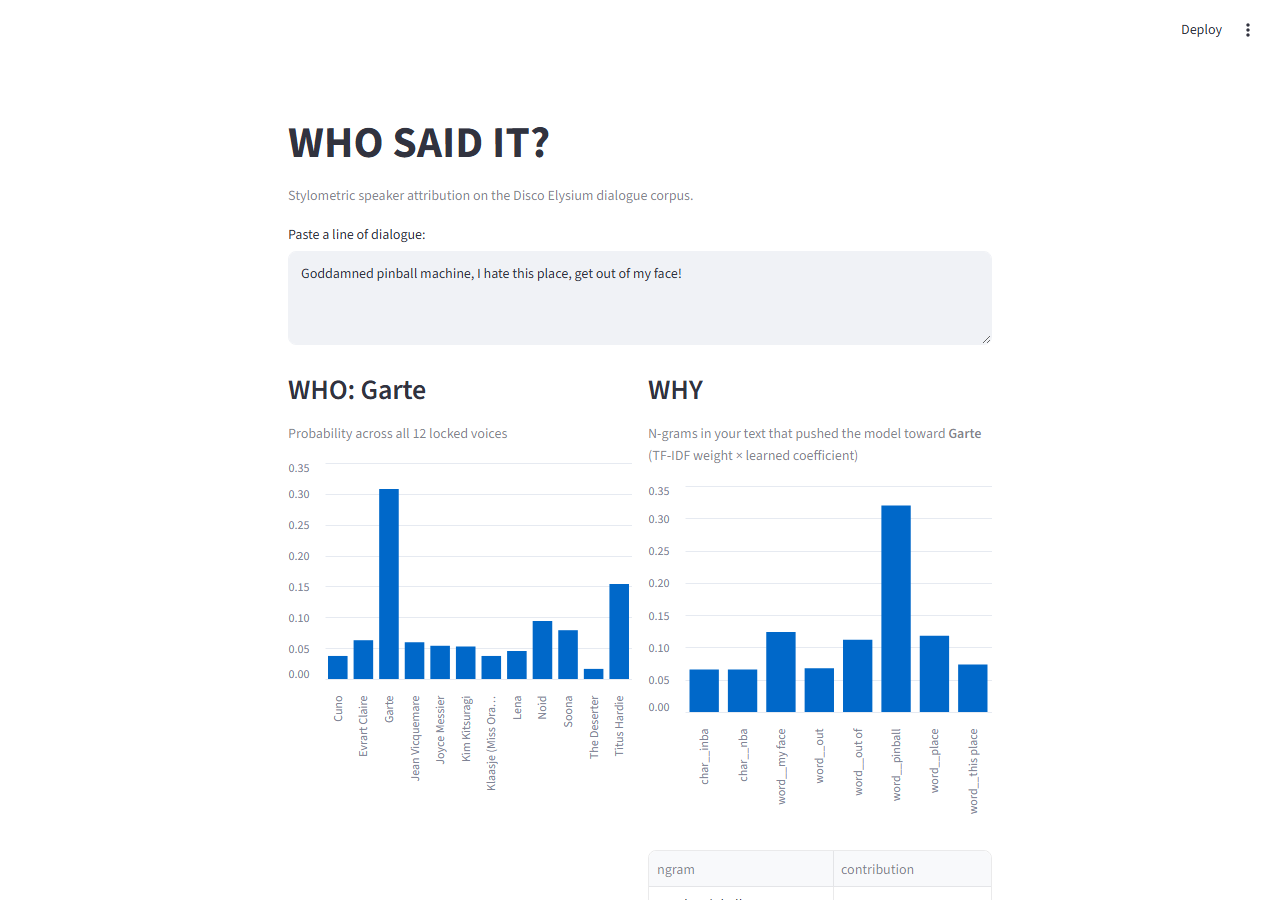
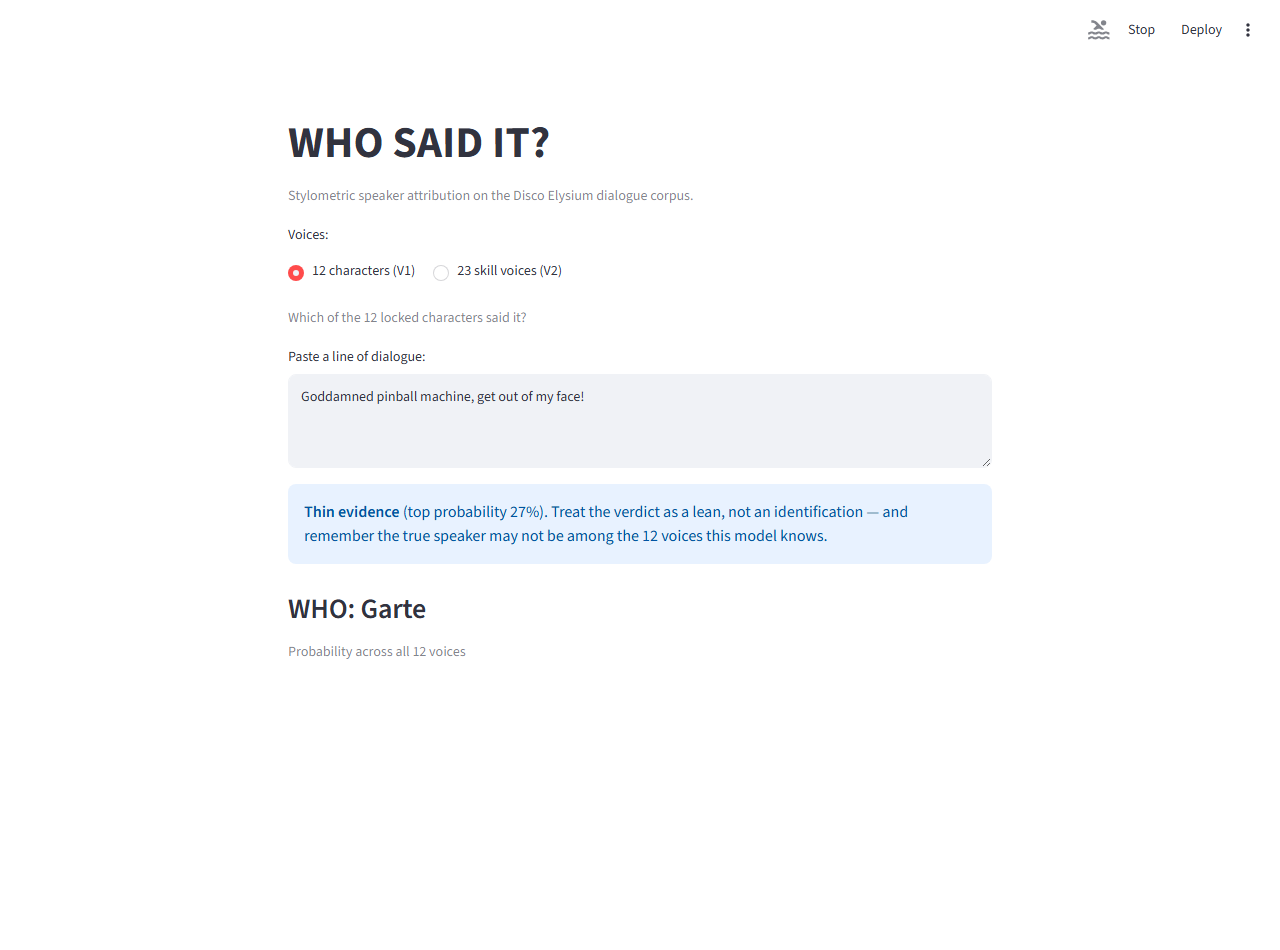
Post-deploy hardening: V2 demo mode, closed-set honesty, perf, tests
Found by hands-on live testing of the deployed demo:
- app: add a V1 (12 characters) / V2 (23 skills) toggle; ship the V2 TF-IDF
  model (scripts/build_skill_demo_model.py). Cache models with
  st.cache_resource (was reloading a multi-MB joblib on every rerun).
- app: closed-set confidence banding - weak (<25%) / thin (<40%) evidence
  warnings, so an out-of-corpus line (e.g. the 'grandpa' Kaggle test that
  confidently returned Cuno) is flagged instead of presented with false
  authority. Documented in README (Closed-set honesty + Limitations).
- classifier.explain_prediction: positive-only contributions - stop
  presenting least-negative n-grams as 'evidence' when nothing pushes toward
  the label.
- stylometry.line_features: Counter instead of per-word .count() (was O(n^2)).
- tests/test_classifier.py: leak-invariant tests for the scene-aware cap +
  scene-grouped split (a scene never straddles train/test; the cap drops whole
  scenes, never fragments one). 13 tests pass.
- README: fixed the Week-5 baseline row (random/majority were merged into one
  cell), an untranslated Turkish phrase, and a link to a gitignored HTML.

diff --git a/app/streamlit_app.py b/app/streamlit_app.py
@@ -1,8 +1,7 @@
-"""Week 4 — "WHO SAID IT?" interactive demo.
+"""WHO SAID IT? — interactive demo (V1 characters + V2 skills).
 
 Run:  streamlit run app/streamlit_app.py
-Needs: data/processed/lines.parquet + a trained pipeline at
-       models/tfidf_logreg.joblib (build with scripts/build_demo_model.py).
+Models ship in the repo (see scripts/build_demo_model.py to retrain).
 """
 
 from __future__ import annotations
@@ -17,33 +16,57 @@ import streamlit as st
 # Streamlit Cloud runs from the repo root without pip-installing the package;
 # put src/ on the path so `discostyle` resolves there too (no-op locally when
 # the package is already installed).
-_SRC = Path(__file__).resolve().parent.parent / "src"
+_ROOT = Path(__file__).resolve().parent.parent
+_SRC = _ROOT / "src"
 if _SRC.is_dir() and str(_SRC) not in sys.path:
     sys.path.insert(0, str(_SRC))
 
 from discostyle.models.classifier import explain_prediction  # noqa: E402
 
-# Resolve against the repo root (parent of app/), not the process cwd, so the
-# model is found no matter where streamlit is launched from.
-MODEL_PATH = Path(__file__).resolve().parent.parent / "models" / "tfidf_logreg.joblib"
+MODES = {
+    "12 characters (V1)": {
+        "path": _ROOT / "models" / "tfidf_logreg.joblib",
+        "placeholder": '"Goddamned pinball machine, I hate this place!"',
+        "caption": "Which of the 12 locked characters said it?",
+    },
+    "23 skill voices (V2)": {
+        "path": _ROOT / "models" / "tfidf_logreg_skills.joblib",
+        "placeholder": '"Did someone mention cocaine? Are we doing cocaine?"',
+        "caption": (
+            "Which of the 23 inner voices is speaking? (Hosted demo ships the lighter "
+            "TF-IDF model, macro-F1 0.298; MiniLM embeddings score 0.322 but need torch — "
+            "see reports/week5_skill_metrics.md.)"
+        ),
+    },
+}
+
+# Verdict-confidence tiers. With 12–23 classes a flat distribution tops out
+# around 0.10–0.15, so a sub-0.25 peak means "no real evidence" (e.g. non-English
+# input) and 0.25–0.40 is thin. Thresholds chosen from observed behavior, not tuned.
+WEAK, MODERATE = 0.25, 0.40
+
+
[email redacted]_resource(show_spinner="Loading model...")
+def load_model(path_str: str):
+    return joblib.load(path_str)
+
 
 st.set_page_config(page_title="Who Said It? — Disco Elysium Stylometry", page_icon="🎙️")
 st.title("WHO SAID IT?")
 st.caption("Stylometric speaker attribution on the Disco Elysium dialogue corpus.")
 
-if not MODEL_PATH.exists():
-    st.warning(
-        "No trained model found at `models/tfidf_logreg.joblib`. "
-        "Run `python scripts/build_demo_model.py` first, then come back."
-    )
+mode = st.radio("Voices:", list(MODES), horizontal=True)
+cfg = MODES[mode]
+
+if not cfg["path"].exists():
+    st.warning(f"Model not found at `{cfg['path'].name}`. "
+               "Run `python scripts/build_demo_model.py` first.")
     st.stop()
 
-pipe = joblib.load(MODEL_PATH)
+pipe = load_model(str(cfg["path"]))
+st.caption(cfg["caption"])
 
-text = st.text_area(
-    "Paste a line of dialogue:",
-    placeholder='"Goddamned pinball machine, I hate this place!"',
-)
+text = st.text_area("Paste a line of dialogue:", placeholder=cfg["placeholder"])
 if text.strip():
     proba = pipe.predict_proba([text])[0]
     classes = pipe.classes_
@@ -51,12 +74,29 @@ if text.strip():
         "probability", ascending=False
     )
     top_speaker = result.iloc[0]["speaker"]
+    top_p = float(result.iloc[0]["probability"])
+
+    # Closed-set honesty: the model MUST pick one of its classes — it cannot say
+    # "none of them". Surface that instead of feigning confidence.
+    if top_p < WEAK:
+        st.warning(
+            f"**Weak evidence** (top probability {top_p:.0%}, near-flat distribution). "
+            "The text gives the model almost nothing — likely not stylistically distinctive, "
+            f"not in English, or said by someone outside the {len(classes)} known voices. "
+            "This classifier is closed-set: it cannot answer “none of them”."
+        )
+    elif top_p < MODERATE:
+        st.info(
+            f"**Thin evidence** (top probability {top_p:.0%}). Treat the verdict as a lean, "
+            "not an identification — and remember the true speaker may not be among the "
+            f"{len(classes)} voices this model knows."
+        )
 
     col_verdict, col_why = st.columns([1, 1])
 
     with col_verdict:
         st.subheader(f"WHO: **{top_speaker}**")
-        st.caption("Probability across all 12 locked voices")
+        st.caption(f"Probability across all {len(classes)} voices")
         st.bar_chart(result.set_index("speaker"))
 
     with col_why:

diff --git a/tests/test_classifier.py b/tests/test_classifier.py
@@ -1,0 +1,73 @@
+"""Leak-invariant tests for the scene-aware cap + scene-grouped split.
+
+This is the pipeline's core safety property: a scene's lines must never
+straddle train/test (adjacent lines share context and leak), and capping
+over-represented classes must drop WHOLE scenes, never fragment one — a
+fragmented scene would let the same conversation leak across the split via
+its surviving half.
+"""
+
+import pandas as pd
+
+from discostyle.models.classifier import scene_aware_cap, scene_of, scene_split
+
+
+def _synthetic_corpus() -> pd.DataFrame:
+    rows = []
+    # Speaker A: 3 scenes x 5 lines = 15 lines (will exceed a cap of 8).
+    for scene in range(3):
+        for i in range(5):
+            rows.append({"line_id": f"A_scene{scene}:{i}", "speaker_canon": "A",
+                         "text": f"line {i} of A scene {scene}"})
+    # Speaker B: 2 scenes x 3 lines = 6 lines (stays under a cap of 8).
+    for scene in range(2):
+        for i in range(3):
+            rows.append({"line_id": f"B_scene{scene}:{i}", "speaker_canon": "B",
+                         "text": f"line {i} of B scene {scene}"})
+    return pd.DataFrame(rows)
+
+
+def test_scene_of_extracts_prefix():
+    df = _synthetic_corpus()
+    scenes = scene_of(df)
+    assert scenes.iloc[0] == "A_scene0"
+    assert scenes.nunique() == 5  # 3 scenes for A + 2 for B
+
+
+def test_split_never_straddles_a_scene():
+    df = _synthetic_corpus()
+    train_idx, test_idx = scene_split(df, test_size=0.3, seed=42)
+    scenes = scene_of(df)
+    train_scenes = set(scenes.loc[train_idx])
+    test_scenes = set(scenes.loc[test_idx])
+    assert train_scenes.isdisjoint(test_scenes), "a scene appears on both sides of the split"
+    # every line lands somewhere, nothing silently dropped by the split itself
+    assert len(train_idx) + len(test_idx) == len(df)
+
+
+def test_cap_drops_whole_scenes_not_fragments():
+    df = _synthetic_corpus()
+    capped = scene_aware_cap(df, max_lines=8, seed=42)
+    scenes = scene_of(capped)
+
+    # For each (speaker, scene) pair present after capping, ALL of that scene's
+    # original lines must be present — no partial scene.
+    orig_scenes = scene_of(df)
+    for sid, grp in capped.groupby(scenes):
+        orig_count = (orig_scenes == sid).sum()
+        assert len(grp) == orig_count, f"scene {sid} was fragmented by the cap"
+
+    # Speaker A (15 lines, cap 8) must have been reduced; Speaker B (6 lines,
+    # cap 8) must be untouched since it never reaches the budget.
+    assert capped[capped["speaker_canon"] == "A"].shape[0] < 15
+    assert capped[capped["speaker_canon"] == "B"].shape[0] == 6
+
+
+def test_cap_then_split_still_leak_free():
+    """The composition that actually matters end-to-end: cap first, split second,
+    and the invariant must still hold."""
+    df = _synthetic_corpus()
+    capped = scene_aware_cap(df, max_lines=8, seed=42).reset_index(drop=True)
+    train_idx, test_idx = scene_split(capped, test_size=0.3, seed=1)
+    scenes = scene_of(capped)
+    assert set(scenes.loc[train_idx]).isdisjoint(set(scenes.loc[test_idx]))

diff --git a/scripts/build_skill_demo_model.py b/scripts/build_skill_demo_model.py
@@ -1,0 +1,41 @@
+"""V2 companion to build_demo_model.py — trains the shipped TF-IDF skill model.
+
+Week 5 reported MiniLM embeddings as the stronger V2 rung (0.322 vs TF-IDF's
+0.298 macro-F1), but the hosted demo ships TF-IDF here deliberately: it needs
+no torch/sentence-transformers at deploy time, keeping the Cloud app light.
+That tradeoff is stated in the app UI, not hidden.
+
+Run:  python scripts/build_skill_demo_model.py
+Output: models/tfidf_logreg_skills.joblib
+"""
+from __future__ import annotations
+
+from pathlib import Path
+
+import joblib
+import pandas as pd
+
+from discostyle.config import MAX_LINES_PER_CLASS
+from discostyle.models.classifier import scene_aware_cap, tfidf_baseline
+
+MODEL_PATH = Path("models/tfidf_logreg_skills.joblib")
+MIN_LINES = 100  # same floor as scripts/week5_skill_classify.py
+
+
+def main() -> None:
+    df = pd.read_parquet("data/processed/lines_v2.parquet")
+    keep = df["speaker_canon"].value_counts()
+    shortlist = keep[keep >= MIN_LINES].index
+    df = df[df["speaker_canon"].isin(shortlist)]
+    df = scene_aware_cap(df, MAX_LINES_PER_CLASS)
+
+    pipe = tfidf_baseline().fit(df["text"], df["speaker_canon"])
+
+    MODEL_PATH.parent.mkdir(parents=True, exist_ok=True)
+    joblib.dump(pipe, MODEL_PATH)
+    print(f"trained on {len(df)} lines, {df['speaker_canon'].nunique()} skills")
+    print(f"wrote {MODEL_PATH}")
+
+
+if __name__ == "__main__":
+    main()

diff --git a/src/discostyle/models/classifier.py b/src/discostyle/models/classifier.py
@@ -119,8 +119,10 @@ def explain_prediction(pipe: Pipeline, text: str, label: str, top_k: int = 8) ->
     coef = clf.coef_[class_idx]
 
     contrib = x.multiply(coef).toarray().ravel()
-    nz = contrib.nonzero()[0]
-    top = nz[np.argsort(-contrib[nz])[:top_k]]
+    # positive contributions only: if nothing in the text pushes TOWARD the label,
+    # return empty rather than presenting least-negative n-grams as "evidence".
+    pos = np.where(contrib > 0)[0]
+    top = pos[np.argsort(-contrib[pos])[:top_k]]
     return pd.DataFrame({"ngram": names[top], "contribution": contrib[top]})
 
 

diff --git a/src/discostyle/features/stylometry.py b/src/discostyle/features/stylometry.py
@@ -10,6 +10,7 @@ from __future__ import annotations
 
 import re
 import string
+from collections import Counter
 
 import pandas as pd
 import textstat
@@ -28,8 +29,8 @@ def line_features(text: str) -> dict[str, float]:
     """Stylometric feature vector for a single line."""
     words = [w.lower() for w in _WORD.findall(text)]
     n = len(words) or 1
-    unique = set(words)
-    counts = {w: words.count(w) for w in unique}
+    counts = Counter(words)  # single pass; the old per-word .count() was O(n^2)
+    unique = counts.keys()
 
     feats: dict[str, float] = {
         "n_words": float(len(words)),

diff --git a/README.md b/README.md
@@ -88,7 +88,7 @@ Scene-grouped split (a scene's lines never straddle train/test) + scene-aware cl
 | **TF-IDF + LogReg** | **0.446 / 0.570** | 0.196 / 0.330 |
 | MiniLM embeddings + LogReg | 0.388 / 0.490 | 0.156 / 0.234 |
 
-**+0.432 macro-F1 over majority** — not a "kolay problem": going from 12 to 36 classes drops
+**+0.432 macro-F1 over majority** — and not an easy problem: going from 12 to 36 classes drops
 TF-IDF macro-F1 from 0.446 to 0.196, which is what actually justifies the locked 12.
 
 The fingerprint's *closest* pair, Kim ~ Klaasje (d=1.46, Week 2), is **not** the classifier's
@@ -129,7 +129,8 @@ original expectation.
 ### Week 4 — voice constellation + interactive demo
 
 All 10,874 locked-12 lines, MiniLM embeddings → UMAP(2D). Full write-up:
-[`reports/week4_atlas.md`](reports/week4_atlas.md) · interactive: `reports/constellation.html`.
+[`reports/week4_atlas.md`](reports/week4_atlas.md); the interactive `constellation.html` is not
+committed (regenerable HTML is gitignored) — rebuild it with `python scripts/week4_atlas.py`.
 
 The atlas cross-checks **four independent** notions of "similar" against each other rather than
 asserting a story from the picture alone:
@@ -151,24 +152,38 @@ but about different things.
 
 #### Interactive demo
 
-Run locally (the trained model ships in the repo):
+Run locally (both trained models ship in the repo):
 
 ```bash
 pip install -r requirements.txt
 streamlit run app/streamlit_app.py
 ```
 
-Or retrain from your own corpus copy: `python scripts/build_demo_model.py`.
+Or retrain from your own corpus copy: `python scripts/build_demo_model.py` (V1) /
+`python scripts/build_skill_demo_model.py` (V2).
 
 **Hosted:** deployable as-is on Streamlit Community Cloud — repo root, main file
 `app/streamlit_app.py`, Python 3.12 (`requirements.txt` pins `scikit-learn==1.9.0`
-to match the committed model artifact; the pin matters, joblib files don't survive
+to match the committed model artifacts; the pin matters, joblib files don't survive
 sklearn version drift).
 
-Paste any line of dialogue and get both **WHO** (predicted speaker + probability across all 12
+A toggle switches between **V1 (12 characters)** and **V2 (23 skills)**. Both ship TF-IDF —
+V2's stronger MiniLM rung (0.322 vs 0.298 macro-F1, Week 5) needs torch, which the hosted demo
+deliberately skips to stay light; the tradeoff is stated in the app, not hidden.
+
+Paste any line of dialogue and get both **WHO** (predicted speaker + probability across all
 voices) and **WHY** (the specific n-grams — TF-IDF weight × learned coefficient — that pushed
 the model toward that speaker). The WHY panel is the interpretability mandate made concrete: a
 probability bar names a verdict, the evidence table justifies it.
+
+**Closed-set honesty.** The classifier can only ever answer with one of its known voices — it
+has no "none of the above." Tested live: an out-of-corpus line about "grandpa" (from an
+independent Kaggle dump, not the training corpus) confidently returned Cuno, driven almost
+entirely by the single word "yeah" (0.24 of the evidence weight) — a real signal (Cuno uses
+"yeah" in 14.8% of his lines vs 0% for Joyce/Lena) but no guarantee the true speaker is even
+among the 12. The app now surfaces this: predictions below 25% peak probability show a "weak
+evidence" warning, 25–40% a "thin evidence" note — flagging low-confidence guesses instead of
+presenting every verdict with the same authority.
 
 ![Demo screenshot](reports/demo_screenshot.png)
 
@@ -182,7 +197,8 @@ The Week-1 spike declared skill-level attribution NO-GO — but that was the *fi
 
 | Model | 23 skills, macro-F1 / acc |
 |---|---|
-| random / majority | 0.038 / 0.005 |
+| random (stratified) | 0.038 / 0.043 |
+| majority class | 0.005 / 0.058 |
 | TF-IDF + LogReg | 0.298 / 0.304 |
 | **MiniLM embeddings + LogReg** | **0.322 / 0.330** |
 
@@ -223,6 +239,12 @@ that names them:
 - **These are honest baselines, not maxed numbers.** No hyperparameter search, one embedding
   model (MiniLM), default LogReg. The point is a clean, leak-free comparison — TF-IDF 0.446
   macro-F1 (V1) is what the *method* gets, not what a tuned system could.
+- **The classifier is closed-set and cannot say "none of these."** Given a line from a
+  character outside the locked 12 (or 23 skills), it still confidently returns its best-known
+  guess — verified live with an out-of-corpus "grandpa" line that the model attributed to Cuno
+  on real but narrow evidence (a single word, "yeah"). The app's confidence banding (weak/thin
+  evidence warnings below 25%/40% peak probability) mitigates this but doesn't solve it — a
+  low-confidence *wrong* guess can still clear the threshold.
 - **Scene-grouped splitting has a cost.** It's the right call (adjacent lines leak topic), but
   characters whose lines cluster in a few conversations end up with thin test support — some
   per-class F1 rests on a handful of test lines. Error analysis filters classes with <15–20 test

diff --git a/ROADMAP.md b/ROADMAP.md
@@ -151,10 +151,16 @@ voice, rewrite it *in that voice*. Never load-bearing.
 - [x] **Limitations section** (mandatory, honest): baselines-not-tuned, scene-split thin-support
   cost, short-line exclusion, V2 imbalance, no-single-ground-truth, English-only, interpretations
   labeled. Corpus copyright covered under Honesty & legal.
-- [ ] **Deploy demo (needs the user's go-ahead — outward-facing/publishing).** Streamlit
-  Community Cloud or HF Spaces. Blocker to resolve first: the demo needs `models/tfidf_logreg.joblib`
-  (gitignored) + the corpus to rebuild it; a deploy must either commit the trained model or
-  rebuild from a corpus the host can fetch. Decide model-artifact strategy before publishing.
+- [x] **Deployed.** Live on Streamlit Community Cloud, public access verified via anonymous
+  headless-browser E2E. Model-artifact strategy: both `tfidf_logreg.joblib` (V1) and
+  `tfidf_logreg_skills.joblib` (V2) are committed (whitelisted in `.gitignore`) so the host
+  never needs the corpus; `requirements.txt` pins `scikit-learn==1.9.0` to match.
+- [x] **Post-deploy hardening**, found by hands-on live testing: `st.cache_resource` (was
+  reloading a multi-MB model on every keystroke-triggered rerun); positive-only n-gram
+  evidence in `explain_prediction` (was returning least-negative n-grams as false "evidence"
+  when nothing pushed toward the label); closed-set confidence banding (weak/thin evidence
+  warnings — see README "Closed-set honesty"); a V2 (23-skill) mode alongside V1; a
+  scene-cap+split leak-invariant test suite (`tests/test_classifier.py`).
 
 ---
 